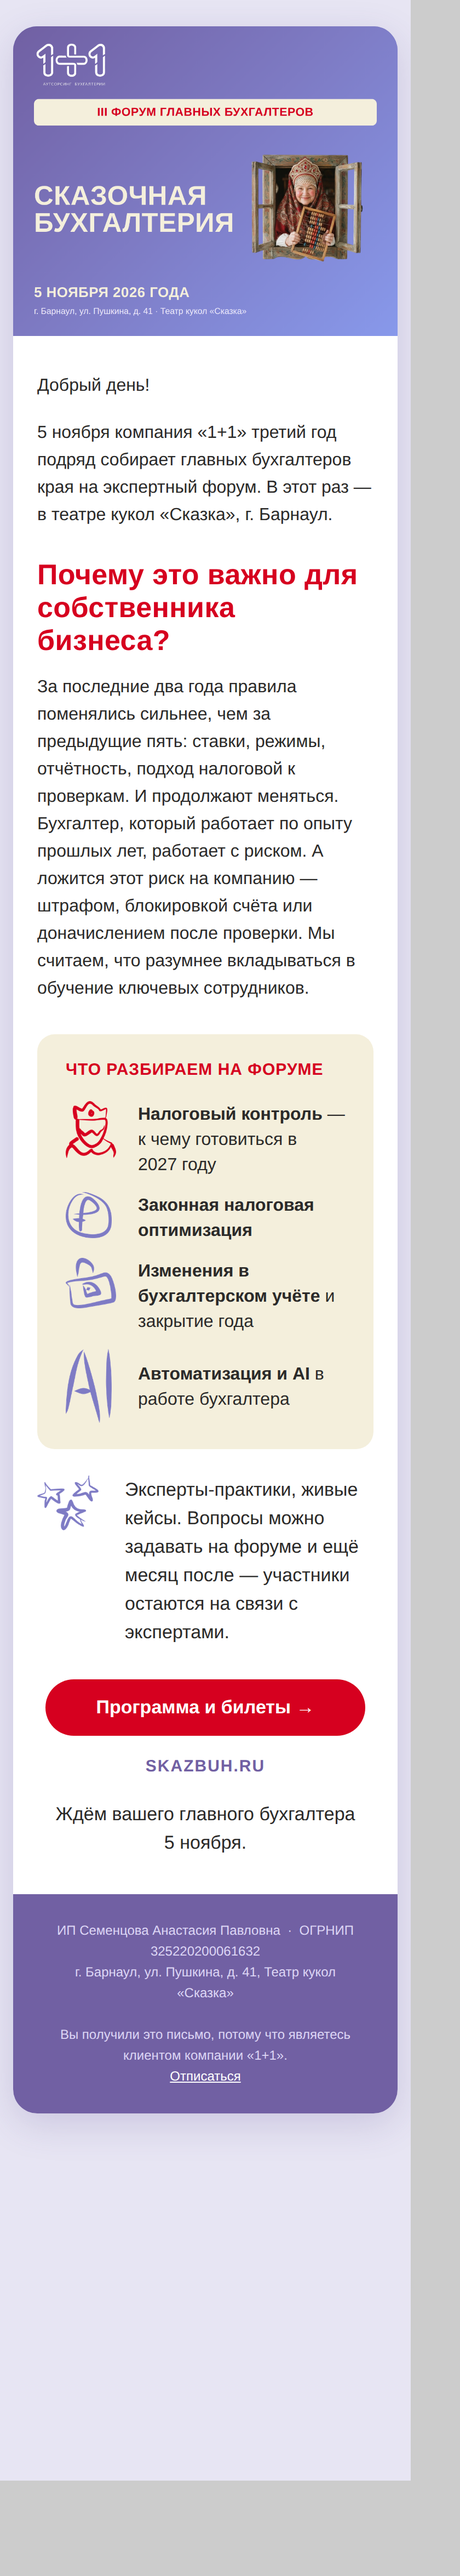
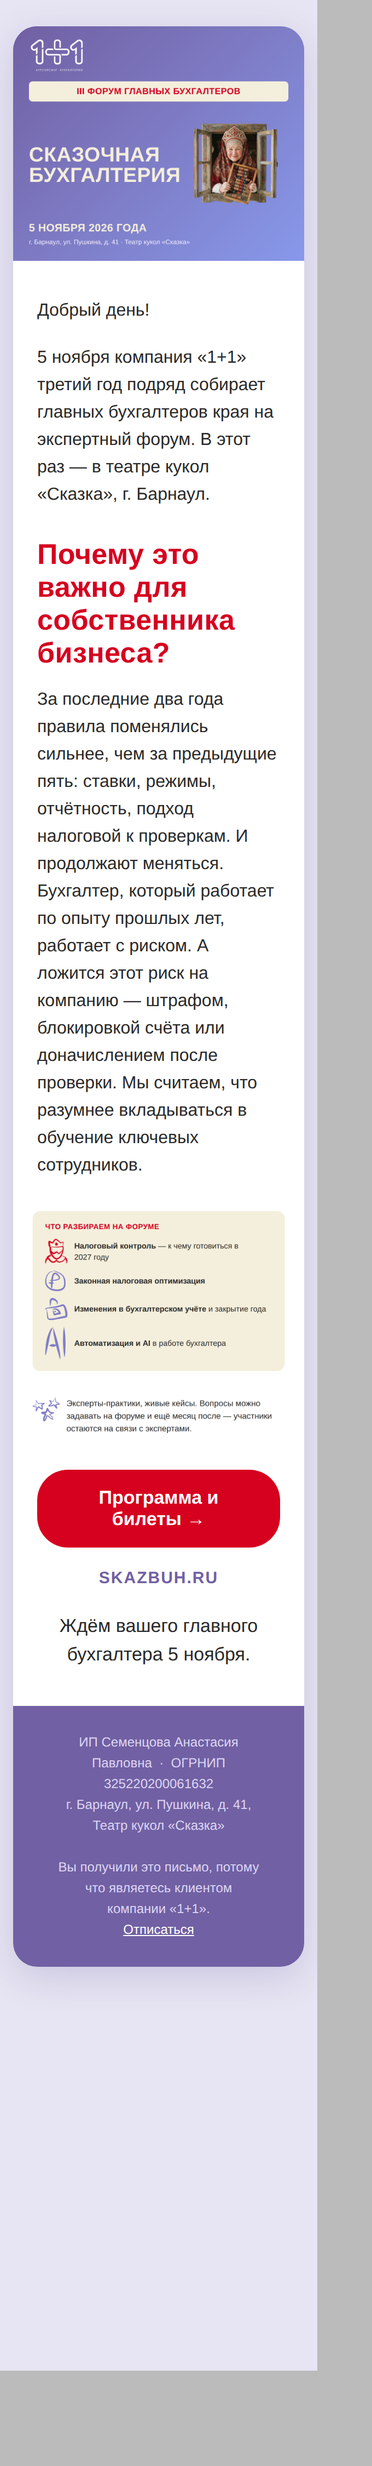
Convert program and experts blocks to scalable images for clean mobile
Fixes narrow-phone word-breaking and horizontal scroll: the icon+text
two-column rows starved the text column on <320px screens. Both blocks
are now single scalable images (verified at 290px, no overflow).

Claude-Session: https://claude.ai/code/session_01DZEn5nyTAWE8zavBUm6caU

diff --git a/conference-skazbuh/email-bitrix.html b/conference-skazbuh/email-bitrix.html
@@ -71,93 +71,15 @@
 
           <!-- ===== PROGRAM ===== -->
           <tr>
-            <td class="px" style="padding:26px 40px 0 40px;">
-              <table role="presentation" width="100%" cellpadding="0" cellspacing="0" border="0" style="background-color:#f4efdc; border-radius:16px;">
-                <tr>
-                  <td style="padding:24px 26px 6px 26px;">
-                    <div style="font-family:'Arial Black',Arial,sans-serif; font-size:15px; font-weight:800; color:#d6001f; letter-spacing:0.5px; text-transform:uppercase;">
-                      Что разбираем на форуме
-                    </div>
-                  </td>
-                </tr>
-
-                <!-- item 1 -->
-                <tr>
-                  <td style="padding:14px 26px 0 26px;">
-                    <table role="presentation" width="100%" cellpadding="0" cellspacing="0" border="0">
-                      <tr>
-                        <td valign="top" width="52" style="padding-right:14px;">
-                          <img src="https://raw.githubusercontent.com/fagencymarketing-coder/design-system/refs/heads/claude/html-email-forum-1plus1-rlrsrh/conference-skazbuh/assets/tsar.png" width="46" alt="" style="display:block; width:46px; height:auto;">
-                        </td>
-                        <td valign="middle" style="font-family:Arial,sans-serif; font-size:16px; line-height:23px; color:#2b2a29;">
-                          <b style="color:#2b2a29;">Налоговый контроль</b> — к чему готовиться в 2027&nbsp;году
-                        </td>
-                      </tr>
-                    </table>
-                  </td>
-                </tr>
-                <!-- item: налоговая оптимизация -->
-                <tr>
-                  <td style="padding:14px 26px 0 26px;">
-                    <table role="presentation" width="100%" cellpadding="0" cellspacing="0" border="0">
-                      <tr>
-                        <td valign="top" width="52" style="padding-right:14px;">
-                          <img src="https://raw.githubusercontent.com/fagencymarketing-coder/design-system/refs/heads/claude/html-email-forum-1plus1-rlrsrh/conference-skazbuh/assets/rubl.png" width="42" alt="" style="display:block; width:42px; height:auto;">
-                        </td>
-                        <td valign="middle" style="font-family:Arial,sans-serif; font-size:16px; line-height:23px; color:#2b2a29;">
-                          <b style="color:#2b2a29;">Законная налоговая оптимизация</b>
-                        </td>
-                      </tr>
-                    </table>
-                  </td>
-                </tr>
-                <!-- item 2 -->
-                <tr>
-                  <td style="padding:14px 26px 0 26px;">
-                    <table role="presentation" width="100%" cellpadding="0" cellspacing="0" border="0">
-                      <tr>
-                        <td valign="top" width="52" style="padding-right:14px;">
-                          <img src="https://raw.githubusercontent.com/fagencymarketing-coder/design-system/refs/heads/claude/html-email-forum-1plus1-rlrsrh/conference-skazbuh/assets/keys.png" width="46" alt="" style="display:block; width:46px; height:auto;">
-                        </td>
-                        <td valign="middle" style="font-family:Arial,sans-serif; font-size:16px; line-height:23px; color:#2b2a29;">
-                          <b style="color:#2b2a29;">Изменения в бухгалтерском учёте</b> и закрытие года
-                        </td>
-                      </tr>
-                    </table>
-                  </td>
-                </tr>
-                <!-- item 3 -->
-                <tr>
-                  <td style="padding:14px 26px 24px 26px;">
-                    <table role="presentation" width="100%" cellpadding="0" cellspacing="0" border="0">
-                      <tr>
-                        <td valign="top" width="52" style="padding-right:14px;">
-                          <img src="https://raw.githubusercontent.com/fagencymarketing-coder/design-system/refs/heads/claude/html-email-forum-1plus1-rlrsrh/conference-skazbuh/assets/ai.png" width="42" alt="" style="display:block; width:42px; height:auto;">
-                        </td>
-                        <td valign="middle" style="font-family:Arial,sans-serif; font-size:16px; line-height:23px; color:#2b2a29;">
-                          <b style="color:#2b2a29;">Автоматизация и AI</b> в работе бухгалтера
-                        </td>
-                      </tr>
-                    </table>
-                  </td>
-                </tr>
-              </table>
+            <td style="padding:26px 0 0 0; font-size:0; line-height:0;">
+              <img src="https://raw.githubusercontent.com/fagencymarketing-coder/design-system/refs/heads/claude/html-email-forum-1plus1-rlrsrh/conference-skazbuh/assets/program-block.png" width="600" alt="Что разбираем на форуме: налоговый контроль — к чему готовиться в 2027 году; законная налоговая оптимизация; изменения в бухгалтерском учёте и закрытие года; автоматизация и AI в работе бухгалтера" style="display:block; width:100%; max-width:600px; height:auto; border:0;">
             </td>
           </tr>
 
           <!-- ===== EXPERTS ===== -->
           <tr>
-            <td class="px" style="padding:24px 40px 0 40px;">
-              <table role="presentation" width="100%" cellpadding="0" cellspacing="0" border="0">
-                <tr>
-                  <td valign="top" width="66" style="padding-right:14px;">
-                    <img src="https://raw.githubusercontent.com/fagencymarketing-coder/design-system/refs/heads/claude/html-email-forum-1plus1-rlrsrh/conference-skazbuh/assets/zvezdy.png" width="56" alt="" style="display:block; width:56px; height:auto;">
-                  </td>
-                  <td valign="middle" style="font-family:Arial,sans-serif; font-size:17px; line-height:26px; color:#2b2a29;">
-                    Эксперты-практики, живые кейсы. Вопросы можно задавать на форуме и ещё месяц после — участники остаются на связи с экспертами.
-                  </td>
-                </tr>
-              </table>
+            <td style="padding:22px 0 0 0; font-size:0; line-height:0;">
+              <img src="https://raw.githubusercontent.com/fagencymarketing-coder/design-system/refs/heads/claude/html-email-forum-1plus1-rlrsrh/conference-skazbuh/assets/experts-block.png" width="600" alt="Эксперты-практики, живые кейсы. Вопросы можно задавать на форуме и ещё месяц после — участники остаются на связи с экспертами." style="display:block; width:100%; max-width:600px; height:auto; border:0;">
             </td>
           </tr>
 

diff --git a/conference-skazbuh/email.html b/conference-skazbuh/email.html
@@ -71,93 +71,15 @@
 
           <!-- ===== PROGRAM ===== -->
           <tr>
-            <td class="px" style="padding:26px 40px 0 40px;">
-              <table role="presentation" width="100%" cellpadding="0" cellspacing="0" border="0" style="background-color:#f4efdc; border-radius:16px;">
-                <tr>
-                  <td style="padding:24px 26px 6px 26px;">
-                    <div style="font-family:'Arial Black',Arial,sans-serif; font-size:15px; font-weight:800; color:#d6001f; letter-spacing:0.5px; text-transform:uppercase;">
-                      Что разбираем на форуме
-                    </div>
-                  </td>
-                </tr>
-
-                <!-- item 1 -->
-                <tr>
-                  <td style="padding:14px 26px 0 26px;">
-                    <table role="presentation" width="100%" cellpadding="0" cellspacing="0" border="0">
-                      <tr>
-                        <td valign="top" width="52" style="padding-right:14px;">
-                          <img src="assets/tsar.png" width="46" alt="" style="display:block; width:46px; height:auto;">
-                        </td>
-                        <td valign="middle" style="font-family:Arial,sans-serif; font-size:16px; line-height:23px; color:#2b2a29;">
-                          <b style="color:#2b2a29;">Налоговый контроль</b> — к чему готовиться в 2027&nbsp;году
-                        </td>
-                      </tr>
-                    </table>
-                  </td>
-                </tr>
-                <!-- item: налоговая оптимизация -->
-                <tr>
-                  <td style="padding:14px 26px 0 26px;">
-                    <table role="presentation" width="100%" cellpadding="0" cellspacing="0" border="0">
-                      <tr>
-                        <td valign="top" width="52" style="padding-right:14px;">
-                          <img src="assets/rubl.png" width="42" alt="" style="display:block; width:42px; height:auto;">
-                        </td>
-                        <td valign="middle" style="font-family:Arial,sans-serif; font-size:16px; line-height:23px; color:#2b2a29;">
-                          <b style="color:#2b2a29;">Законная налоговая оптимизация</b>
-                        </td>
-                      </tr>
-                    </table>
-                  </td>
-                </tr>
-                <!-- item 2 -->
-                <tr>
-                  <td style="padding:14px 26px 0 26px;">
-                    <table role="presentation" width="100%" cellpadding="0" cellspacing="0" border="0">
-                      <tr>
-                        <td valign="top" width="52" style="padding-right:14px;">
-                          <img src="assets/keys.png" width="46" alt="" style="display:block; width:46px; height:auto;">
-                        </td>
-                        <td valign="middle" style="font-family:Arial,sans-serif; font-size:16px; line-height:23px; color:#2b2a29;">
-                          <b style="color:#2b2a29;">Изменения в бухгалтерском учёте</b> и закрытие года
-                        </td>
-                      </tr>
-                    </table>
-                  </td>
-                </tr>
-                <!-- item 3 -->
-                <tr>
-                  <td style="padding:14px 26px 24px 26px;">
-                    <table role="presentation" width="100%" cellpadding="0" cellspacing="0" border="0">
-                      <tr>
-                        <td valign="top" width="52" style="padding-right:14px;">
-                          <img src="assets/ai.png" width="42" alt="" style="display:block; width:42px; height:auto;">
-                        </td>
-                        <td valign="middle" style="font-family:Arial,sans-serif; font-size:16px; line-height:23px; color:#2b2a29;">
-                          <b style="color:#2b2a29;">Автоматизация и AI</b> в работе бухгалтера
-                        </td>
-                      </tr>
-                    </table>
-                  </td>
-                </tr>
-              </table>
+            <td style="padding:26px 0 0 0; font-size:0; line-height:0;">
+              <img src="assets/program-block.png" width="600" alt="Что разбираем на форуме: налоговый контроль — к чему готовиться в 2027 году; законная налоговая оптимизация; изменения в бухгалтерском учёте и закрытие года; автоматизация и AI в работе бухгалтера" style="display:block; width:100%; max-width:600px; height:auto; border:0;">
             </td>
           </tr>
 
           <!-- ===== EXPERTS ===== -->
           <tr>
-            <td class="px" style="padding:24px 40px 0 40px;">
-              <table role="presentation" width="100%" cellpadding="0" cellspacing="0" border="0">
-                <tr>
-                  <td valign="top" width="66" style="padding-right:14px;">
-                    <img src="assets/zvezdy.png" width="56" alt="" style="display:block; width:56px; height:auto;">
-                  </td>
-                  <td valign="middle" style="font-family:Arial,sans-serif; font-size:17px; line-height:26px; color:#2b2a29;">
-                    Эксперты-практики, живые кейсы. Вопросы можно задавать на форуме и ещё месяц после — участники остаются на связи с экспертами.
-                  </td>
-                </tr>
-              </table>
+            <td style="padding:22px 0 0 0; font-size:0; line-height:0;">
+              <img src="assets/experts-block.png" width="600" alt="Эксперты-практики, живые кейсы. Вопросы можно задавать на форуме и ещё месяц после — участники остаются на связи с экспертами." style="display:block; width:100%; max-width:600px; height:auto; border:0;">
             </td>
           </tr>
 
